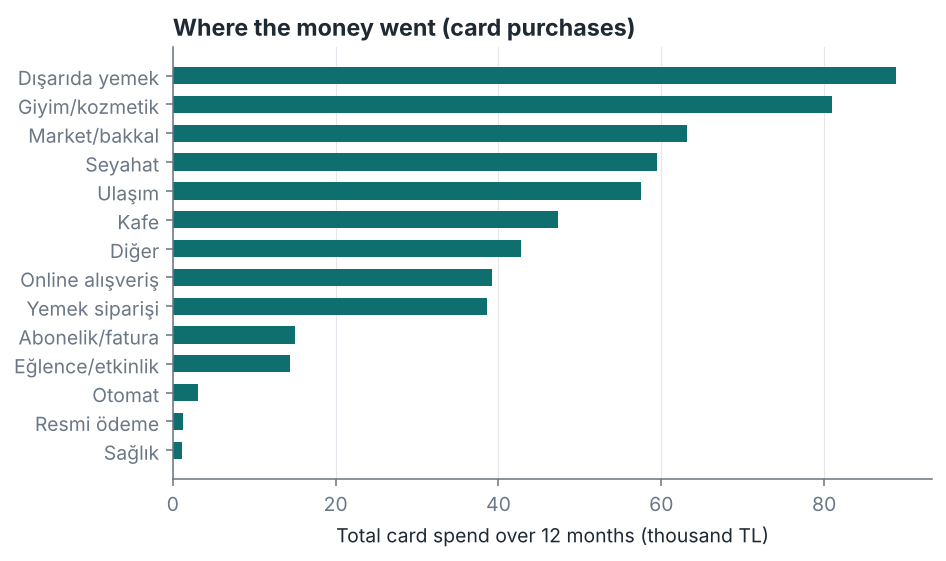
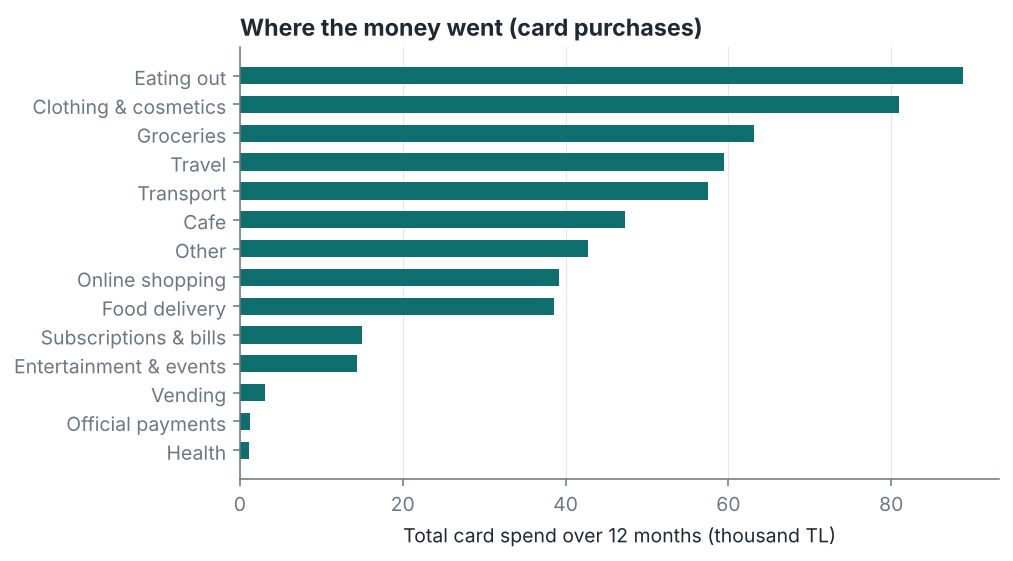
Add conclusion, English labels and robustness plot

diff --git a/src/clean.py b/src/clean.py
@@ -24,20 +24,20 @@ OUT = ROOT / "data" / "processed" / "transactions.csv"
 
 # ordered: first match wins. Patterns run on an UPPER-cased merchant string.
 CATEGORY_RULES = [
-    ("Yemek siparişi", r"YEMEKSEPETI|GETIR|TRENDYOLYEMEK|MIGROSYEMEK"),
-    ("Kafe", r"STARBUCKS|SBX|KAHVE|COFFEE|KOPUKLU|CAFE|KAFE|BISTRO KAHVE"),
-    ("Otomat", r"OTOMAT|VDL |MATIK"),
-    ("Market/bakkal", r"OKUR GRUP|OZGUR SAS|MOPAS|MARKET|MIGROS|A101|\bSOK\b|ŞOK|CARREFOUR|SARKUTERI|TEKEL|TOPTAN VE PERAKENDE|BIM "),
-    ("Dışarıda yemek", r"YUKSELEN YILDIZ|SABANCI UNIVERSITESI|MCDONALD|KEBAPCI|BURGER|CREMMA|BREAD|DURUMLE|DUMPLING|COCO BEACH|TAVERN|RESTAURANT|BALIKCI|KAHVALTI|RESTORAN|PIZZA|SELF GIDA|KUCUK EV|BISTRO|BIG CHEFS|KFC|SIMIT|PACOTTA|TABUFOODS|KAZINTI|HMR|THE CO|NEW CITY|BARU GIDA|BULAD|LOUNGE|UNLU MAMUL|YOMUMU|JOHANNA|BAR\b"),
-    ("Ulaşım", r"ISTANBULKART|BELBIM|YANDEX|BITAKSI|PEGASUS|TURIZM|TURI |PETROL|OPET|OTOMOTIV|TOSLA|UBER|MARTI|YAKACIK KART"),
-    ("Abonelik/fatura", r"NETFLIX|DISNEY|SPOTIFY|AMAZONPRIME|TCELL|TURKCELL|FATURA|LORKA|YOUTUBE|APPLE|ICLOUD|GOOGLE"),
-    ("Online alışveriş", r"CICEKSEPETI|TRENDYOL|AMAZON|HEPSIBURADA|GRATIS|GRATİS|IYZICO|IYZİCO|PARAM|FITNLIT|PARIBU"),
-    ("Seyahat", r"THY|AJET|GETYOURGUIDE|HALFPRICE|PRAHA|HOTEL|OTEL|CASALINN"),
-    ("Resmi ödeme", r"HARCLAR|VD MERKEZ|VERGI"),
-    ("Giyim/kozmetik", r"OJI STUDIO|MANGO|H AND M|PENTI|JEAN STORE|ZARA|SEPHORA|PULL|BERSHKA|STRADIVARIUS|STRADİVARİUS|KOTON|TOMMY|SUPERSTEP|MARLIN|GIYIM|TEKSTIL|MAGAZACILIK|MAĞAZACILIK|DERI|DERİ|ROSSMANN|NORVCLO|CARMA|HALFPRICE|DEICHMANN|DEİCHMANN|SHOPIER|PAYTR|NKOLAY|QNBPAY|TKPAY"),
-    ("Market/bakkal", r"GIDA"),   # generic fallback: any remaining food-company name
-    ("Sağlık", r"HASTANE|ECZANE|POLIKLINIK|KLINIK|DOKTOR|OPTIK"),
-    ("Eğlence/etkinlik", r"SINEMA|MUZE|BILET|BİLET|CINEMA|GOOUT|FOCUS|MENTALIST|TIYATRO"),
+    ("Food delivery", r"YEMEKSEPETI|GETIR|TRENDYOLYEMEK|MIGROSYEMEK"),
+    ("Cafe", r"STARBUCKS|SBX|KAHVE|COFFEE|KOPUKLU|CAFE|KAFE|BISTRO KAHVE"),
+    ("Vending", r"OTOMAT|VDL |MATIK"),
+    ("Groceries", r"OKUR GRUP|OZGUR SAS|MOPAS|MARKET|MIGROS|A101|\bSOK\b|ŞOK|CARREFOUR|SARKUTERI|TEKEL|TOPTAN VE PERAKENDE|BIM "),
+    ("Eating out", r"YUKSELEN YILDIZ|SABANCI UNIVERSITESI|MCDONALD|KEBAPCI|BURGER|CREMMA|BREAD|DURUMLE|DUMPLING|COCO BEACH|TAVERN|RESTAURANT|BALIKCI|KAHVALTI|RESTORAN|PIZZA|SELF GIDA|KUCUK EV|BISTRO|BIG CHEFS|KFC|SIMIT|PACOTTA|TABUFOODS|KAZINTI|HMR|THE CO|NEW CITY|BARU GIDA|BULAD|LOUNGE|UNLU MAMUL|YOMUMU|JOHANNA|BAR\b"),
+    ("Transport", r"ISTANBULKART|BELBIM|YANDEX|BITAKSI|PEGASUS|TURIZM|TURI |PETROL|OPET|OTOMOTIV|TOSLA|UBER|MARTI|YAKACIK KART"),
+    ("Subscriptions & bills", r"NETFLIX|DISNEY|SPOTIFY|AMAZONPRIME|TCELL|TURKCELL|FATURA|LORKA|YOUTUBE|APPLE|ICLOUD|GOOGLE"),
+    ("Online shopping", r"CICEKSEPETI|TRENDYOL|AMAZON|HEPSIBURADA|GRATIS|GRATİS|IYZICO|IYZİCO|PARAM|FITNLIT|PARIBU"),
+    ("Travel", r"THY|AJET|GETYOURGUIDE|HALFPRICE|PRAHA|HOTEL|OTEL|CASALINN"),
+    ("Official payments", r"HARCLAR|VD MERKEZ|VERGI"),
+    ("Clothing & cosmetics", r"OJI STUDIO|MANGO|H AND M|PENTI|JEAN STORE|ZARA|SEPHORA|PULL|BERSHKA|STRADIVARIUS|STRADİVARİUS|KOTON|TOMMY|SUPERSTEP|MARLIN|GIYIM|TEKSTIL|MAGAZACILIK|MAĞAZACILIK|DERI|DERİ|ROSSMANN|NORVCLO|CARMA|HALFPRICE|DEICHMANN|DEİCHMANN|SHOPIER|PAYTR|NKOLAY|QNBPAY|TKPAY"),
+    ("Groceries", r"GIDA"),   # generic fallback: any remaining food-company name
+    ("Health", r"HASTANE|ECZANE|POLIKLINIK|KLINIK|DOKTOR|OPTIK"),
+    ("Entertainment & events", r"SINEMA|MUZE|BILET|BİLET|CINEMA|GOOUT|FOCUS|MENTALIST|TIYATRO"),
 ]
 
 
@@ -68,7 +68,7 @@ def categorise(m: str) -> str:
     for name, pat in CATEGORY_RULES:
         if re.search(pat, u):
             return name
-    return "Diğer"
+    return "Other"
 
 
 def main() -> None:
@@ -91,7 +91,7 @@ def main() -> None:
     p = out[out["type"] == "purchase"]
     print(f"rows={len(out)}  purchases={len(p)}")
     print(out["type"].value_counts().to_string())
-    share = (p["category"] == "Diğer").mean()
+    share = (p["category"] == "Other").mean()
     print(f"uncategorised share (count): {share:.1%}")
     print(p.groupby("category")["tutar"].agg(["size", "sum"]).sort_values("sum").to_string())
 

diff --git a/src/robustness.py b/src/robustness.py
@@ -7,6 +7,7 @@ Output: data/aggregated/cafe_robustness.csv
 import sys
 from pathlib import Path
 
+import matplotlib.pyplot as plt
 import numpy as np
 import pandas as pd
 from scipy import stats
@@ -60,7 +61,7 @@ def main():
     tx = pd.read_csv(A.TX, parse_dates=["ts"])
     lab = A.label_days(tx.ts.min().normalize(), tx.ts.max().normalize())
     df = lab.merge(A.daily_metrics(tx, pd.DatetimeIndex(lab.date)), on="date")
-    p = tx[(tx["type"] == "purchase") & (tx.category == "Kafe")].copy()
+    p = tx[(tx["type"] == "purchase") & (tx.category == "Cafe")].copy()
     p["date"] = p.ts.dt.normalize()
     p["campus"] = p.merchant.str.upper().str.contains("SABANC")
     df["cafe_campus"] = df.date.map(-p[p.campus].groupby("date").tutar.sum()).fillna(0.0)
@@ -76,7 +77,7 @@ def main():
     scen = [
         ("1 baseline (all days)", "spend_cafe", allday),
         ("2 without trip days", "spend_cafe", ~trip),
-        ("3 without trips + stated break (11-28 Jun)", "spend_cafe", ~trip & ~brk),
+        ("3 without trips + gap between terms", "spend_cafe", ~trip & ~brk),
         ("4 without trips + whole summer (Jun-Aug)", "spend_cafe", ~trip & ~summer),
         ("5 weekdays only, no trips/break", "spend_cafe", weekday & ~trip & ~brk),
         ("6 campus cafes only, no trips/break", "cafe_campus", ~trip & ~brk),
@@ -93,6 +94,21 @@ def main():
             rows.append(dict(scenario=name, detrended=dt, **r))
     out = pd.DataFrame(rows)
     out.round(3).to_csv(A.AGG / "cafe_robustness.csv", index=False)
+    # ---- forest plot: how the cafe effect shrinks as confounds are removed (TL scenarios, raw)
+    f = out[(~out.detrended) & out.scenario.str[:2].str.strip().astype(int).between(1, 8)].iloc[::-1]
+    fig, ax = plt.subplots(figsize=(8.2, 4.4))
+    y = np.arange(len(f))
+    ax.hlines(y, f.ci95_lo, f.ci95_hi, color="#9fb8b8", lw=2.5)
+    ax.plot(f.mean_diff, y, "o", color=A.ACCENT, ms=8, markeredgecolor="white", markeredgewidth=1.5)
+    ax.axvline(0, color=A.INK, lw=1)
+    ax.set_yticks(y)
+    ax.set_yticklabels([x[2:].strip() for x in f.scenario], fontsize=8.5)
+    ax.set_xlabel("Cafe spend, luteal minus follicular (TL/day).  Dot = mean difference, line = 95% CI")
+    ax.set_title("The cafe 'effect' fades once I account for my schedule", loc="left", fontweight="bold")
+    ax.grid(axis="y", visible=False)
+    fig.savefig(A.FIG / "06_cafe_robustness.png")
+    plt.close(fig)
+
     pd.set_option("display.width", 250)
     print(out.drop(columns=["luteal_days", "follicular_days"]).round(2).to_string())
     print(out[["scenario", "detrended", "luteal_days", "follicular_days"]].drop_duplicates("scenario").to_string())

diff --git a/src/analyze.py b/src/analyze.py
@@ -23,8 +23,8 @@ FIG.mkdir(exist_ok=True)
 
 LUTEAL_LEN = 14          # assumption: ovulation ~14 days before next period
 MENSES_DAYS = 5          # assumption: bleeding length not recorded, first 5 days
-DISCRETIONARY = ["Kafe", "Yemek siparişi", "Dışarıda yemek", "Online alışveriş",
-                 "Giyim/kozmetik", "Eğlence/etkinlik", "Otomat"]
+DISCRETIONARY = ["Cafe", "Food delivery", "Eating out", "Online shopping",
+                 "Clothing & cosmetics", "Entertainment & events", "Vending"]
 PHASES = ["Menstrual", "Follicular", "Ovulatory", "Luteal"]
 RNG = np.random.default_rng(210)
 
@@ -77,8 +77,8 @@ def daily_metrics(tx: pd.DataFrame, days: pd.DatetimeIndex) -> pd.DataFrame:
     g["spend_disc"] = p[p.disc].groupby("date").spend.sum()
     g["n_purchases"] = p.groupby("date").size()
     g["n_late"] = p[p.late].groupby("date").size()
-    g["n_delivery"] = p[p.category == "Yemek siparişi"].groupby("date").size()
-    g["spend_cafe"] = p[p.category == "Kafe"].groupby("date").spend.sum()
+    g["n_delivery"] = p[p.category == "Food delivery"].groupby("date").size()
+    g["spend_cafe"] = p[p.category == "Cafe"].groupby("date").spend.sum()
     g = g.fillna(0.0)
     # winsorise heavy tails (one-off flights, tickets) at the 99th percentile
     for c in ["spend_all", "spend_disc"]:

diff --git a/README.md b/README.md
@@ -60,6 +60,11 @@ observations. Instead:
 - Repeated after removing slow seasonal drift (29-day rolling mean).
 
 ## Results
+**Key results at a glance**
+- Total card spend: **552,701 TL** in 12 months; the biggest categories are eating out (16%) and clothing & cosmetics (15%).
+- **H1, H2: not supported.** No reliable difference in discretionary spending or late-night buying between cycle phases.
+- **H3: not supported either.** Food delivery shows nothing. Cafe spending *looked* lower in the luteal phase, but the pattern fades once I account for my schedule (see below).
+
 ![categories](figures/01_categories.png)
 ![hours](figures/02_hour_of_day.png)
 
@@ -95,15 +100,43 @@ campus cafes the effect disappears. The only thing that remains is a weak, borde
 buy coffee on *fewer days* in the luteal phase (about 6 percentage points, scenario 10), which I
 would not call a finding. The honest conclusion: **no robust cycle effect on spending in my data.**
 
+![cafe robustness](figures/06_cafe_robustness.png)
+
+*Reading the plot: each dot is the average luteal-minus-follicular difference in cafe spend; the line is its 95% confidence interval. When a line crosses 0 (the vertical black line), I cannot rule out "no difference". The top two rows are the original result; the rows below add one correction each.*
+
 ![pre-period](figures/05_pre_period_curve.png)
+
+*Spending in the 14 days before a period. It is noisy and shows no clear ramp-up.*
 
 | Table | File |
 |---|---|
 | Phase means | `data/aggregated/phase_summary.csv` |
 | Luteal vs follicular tests | `data/aggregated/luteal_vs_follicular_tests.csv` |
 | Detrended robustness | `data/aggregated/robustness_detrended.csv` |
-| Cafe robustness (11 scenarios) | `data/aggregated/cafe_robustness.csv` |
+| Cafe robustness (11 scenarios) | `data/aggregated/cafe_robustness.csv` (plot: `figures/06_cafe_robustness.png`) |
 | One row per cycle | `data/aggregated/cycle_level_means.csv` |
+
+## Conclusion
+| Hypothesis | What I found | Verdict |
+|---|---|---|
+| H1: more discretionary spending in the luteal phase | 831 vs 662 TL/day and higher in 9 of 12 cycles, but the 95% CI includes 0 and my two tests disagree | Not supported (inconclusive) |
+| H2: more late-night purchases in the luteal phase | 0.63 vs 0.57 per day, p = 0.4-0.6 | Not supported |
+| H3: food delivery / cafe differ by phase | Delivery: no difference. Cafe: lower in the luteal phase at first, but the effect fades after removing a few outlier days, the gap between terms and weekends | Not supported (the lead is fragile) |
+
+**In plain words:** in one year of my own data I found **no reliable sign that my spending follows my menstrual
+cycle**. The one pattern that looked real was produced by my calendar (a gap between terms, a few
+unusual days), not by my cycle. So at least for me, spending seems to depend more on *where I am and what
+my week looks like* than on *which phase I am in*.
+
+**What I learned**
+- A single "significant" result among many tests is a lead, not a finding; I only believed it after trying to break it.
+- With repeated cycles the unit of analysis is the *cycle* (n = 12), not the day (n = 348); treating days as independent would have overstated my confidence.
+- Real personal data is messy: transfers are not spending, merchants need cleaning, and phases have to be estimated.
+
+**What I would do next**
+- Collect more cycles (a second year) and add ovulation tests instead of calendar estimates.
+- Track daily screen time and mood prospectively (it cannot be exported backwards on an iPhone), to look at impulses rather than only payments.
+- Use itemised receipts (e.g. online orders) so "discretionary" is measured, not guessed from merchant names.
 
 ## Honest limitations
 - **Small n:** 12 cycles, one person. Nothing here generalises.
